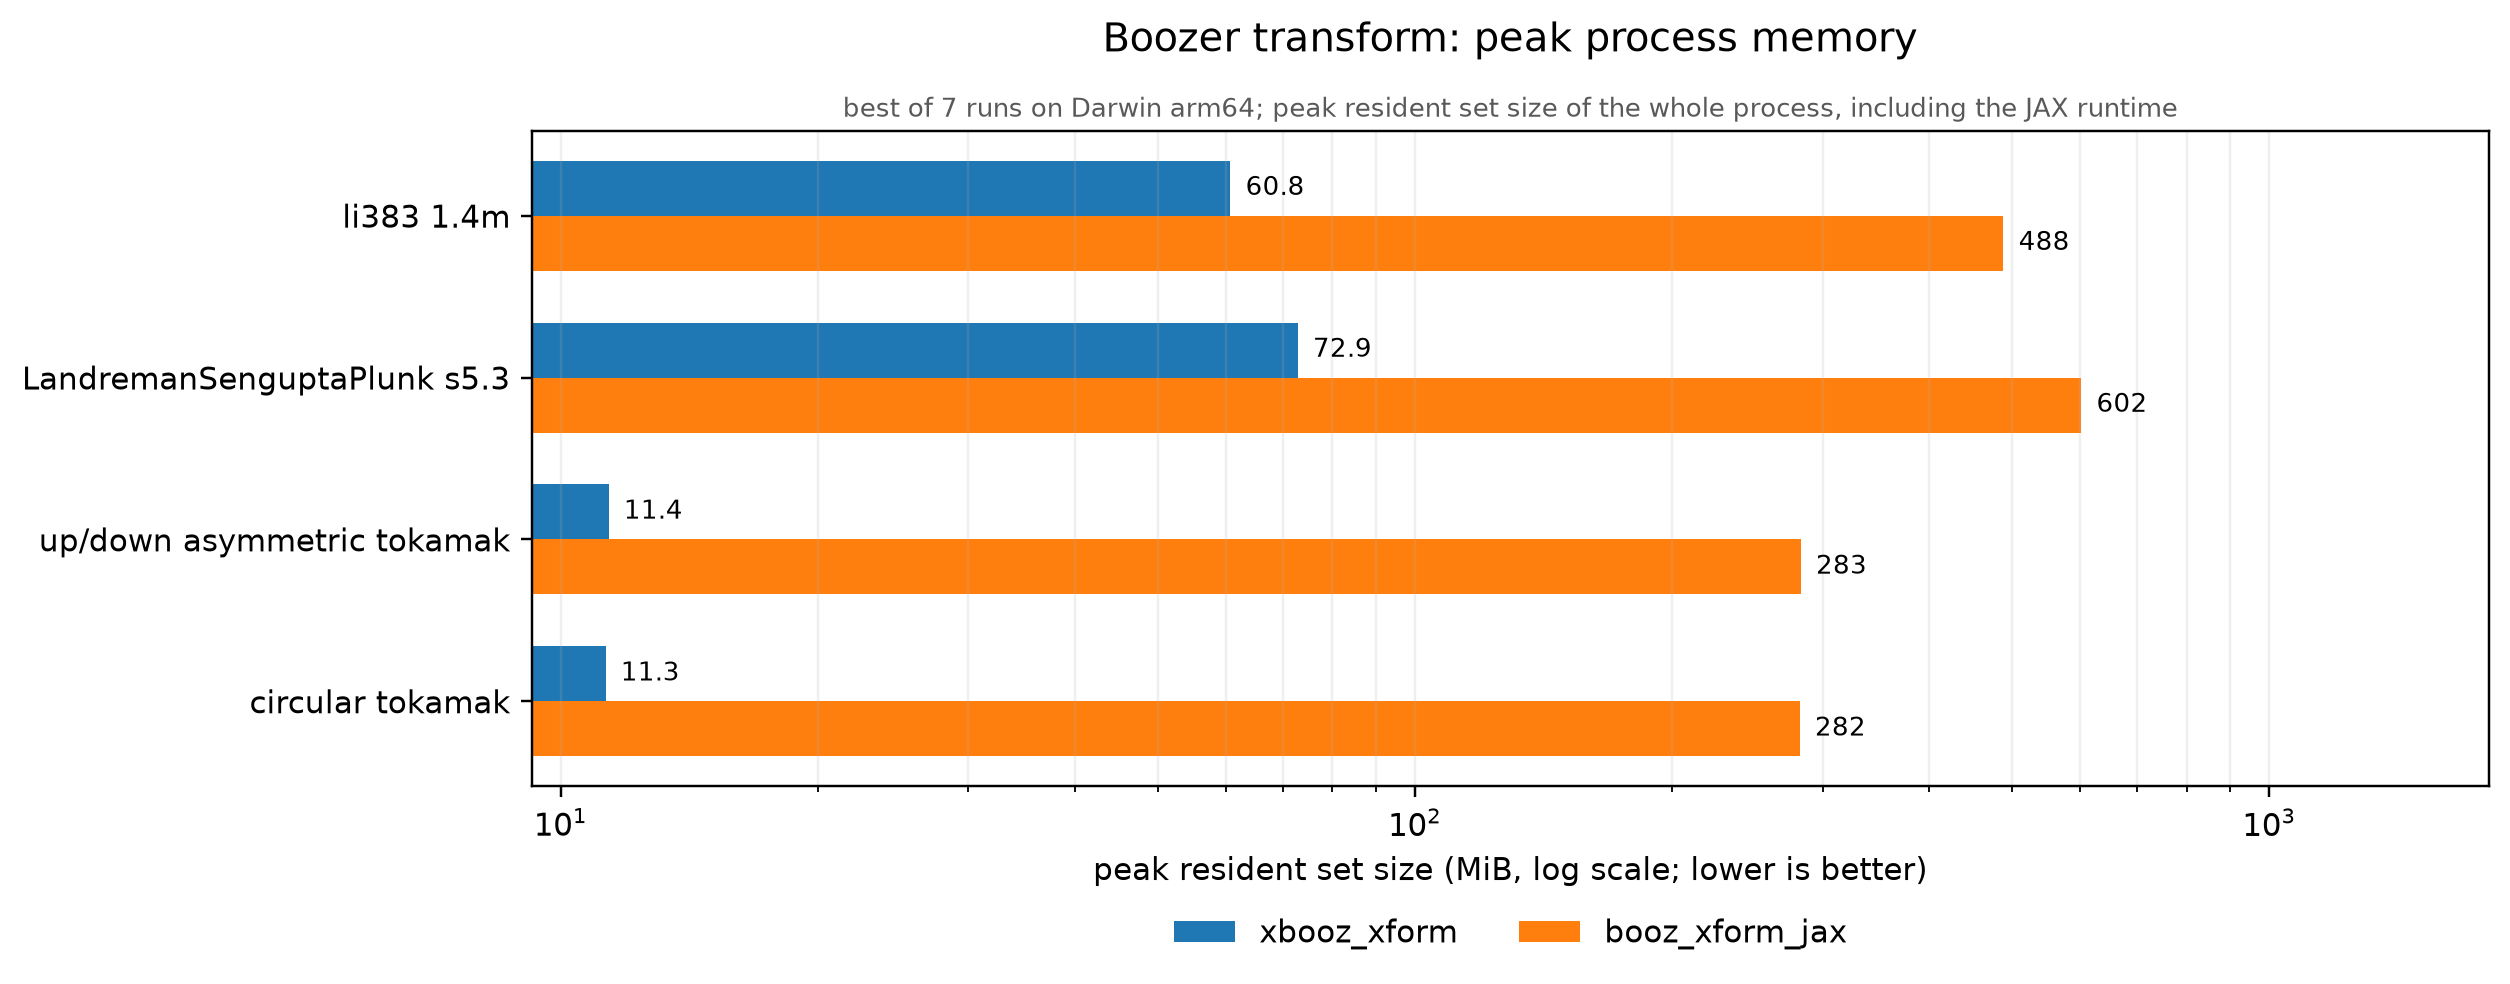
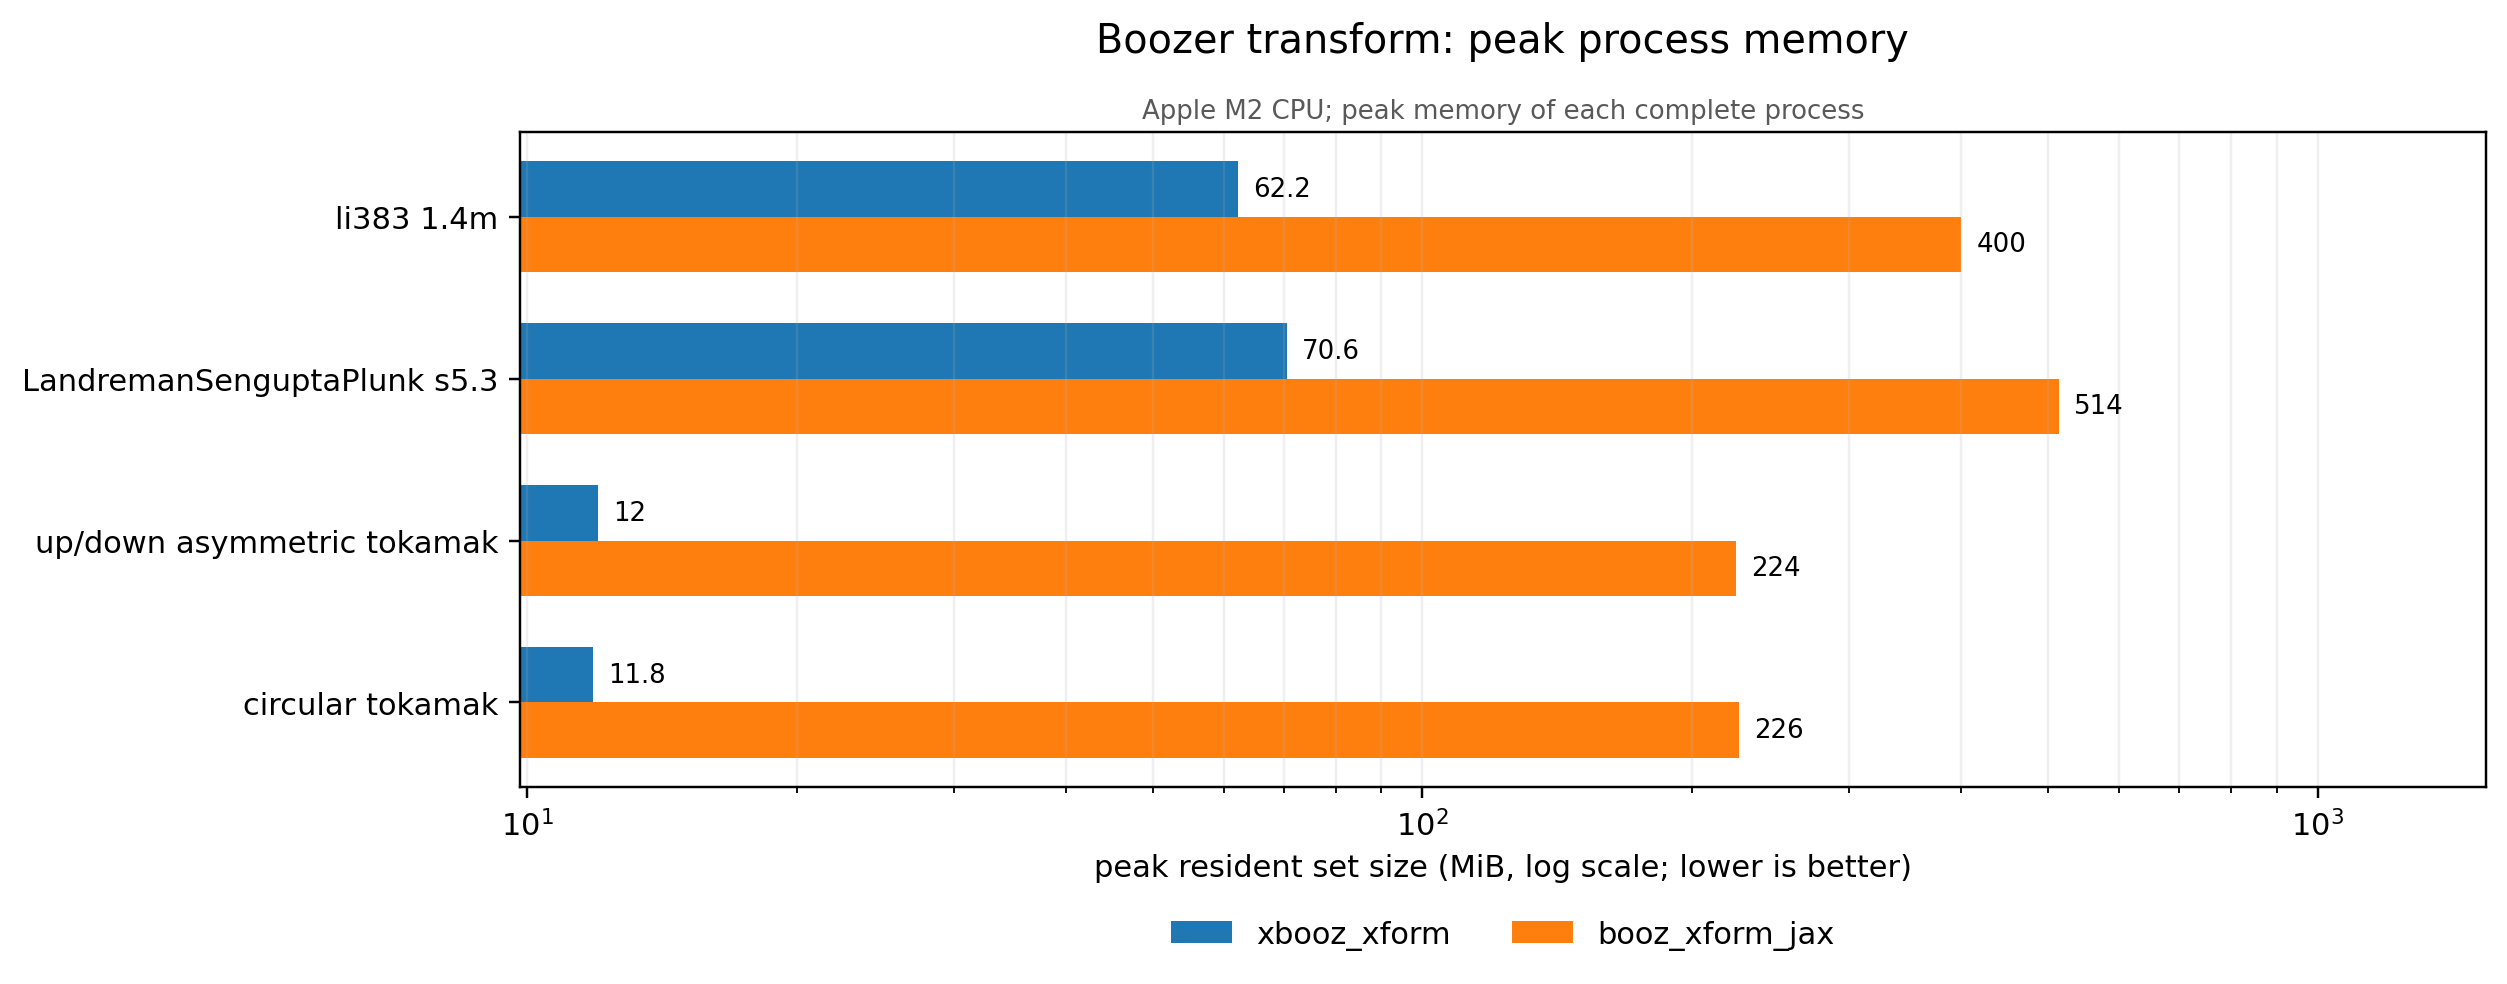
Release 0.4.2 with concise validated transform comparisons

diff --git a/tools/readme_compare.py b/tools/readme_compare.py
@@ -1,21 +1,4 @@
-"""Generate README comparison figures for booz_xform_jax vs original xbooz_xform.
-
-The numbers published in the README come from this script. Every row is an
-end-to-end measurement of the two command-line programs on the same legacy
-``booz_in`` input: total wall-clock time and peak resident set size of the
-process, taken as the best of several repeats.
-
-Total wall-clock time is the number a user actually waits for, and for
-``booz_xform_jax`` it includes a fixed Python and JAX import cost that the
-compiled reference does not pay. That cost is measured separately and
-reported alongside the table so the two contributions can be told apart; it
-is not subtracted from any published figure.
-
-The reference binary is located from ``--reference-bin``, the
-``BOOZ_XFORM_REFERENCE_BIN`` environment variable, or ``xbooz_xform`` on
-``PATH``. Two further cases are included when ``--vmec-jax-root`` or the
-``VMEC_JAX_ROOT`` environment variable points at a tree that contains them.
-"""
+"""Compare matched CLI spectra, runtime and memory with BOOZ_XFORM."""
 
 from __future__ import annotations
 
@@ -401,7 +384,11 @@ def _profile_metrics(ref_data, jax_data) -> dict[str, float]:
     iota_jax = np.asarray(jax_data["iota_b"])[1:]
     b00_ref = bmnc_ref[0]
     b00_jax = bmnc_jax[0]
+    bmns_ref = np.asarray(ref_data.get("bmns_b", np.zeros_like(bmnc_ref)))
+    bmns_jax = np.asarray(jax_data.get("bmns_b", np.zeros_like(bmnc_jax)))
     return {
+        "bmn_rel_l2": float(np.linalg.norm(np.stack((bmnc_jax - bmnc_ref, bmns_jax - bmns_ref)))
+                            / np.linalg.norm(np.stack((bmnc_ref, bmns_ref)))),
         "iota_rel_l2": float(np.linalg.norm(iota_jax - iota_ref) / max(np.linalg.norm(iota_ref), 1e-30)),
         "b00_rel_l2": float(np.linalg.norm(b00_jax - b00_ref) / max(np.linalg.norm(b00_ref), 1e-30)),
         "bmnc_rel_l2": float(np.linalg.norm(bmnc_jax - bmnc_ref) / max(np.linalg.norm(bmnc_ref), 1e-30)),
@@ -693,16 +680,14 @@ def main() -> None:
         rows,
         outpath=outdir / "comparison_runtime.png",
         subtitle=(
-            f"best of {args.repeats} runs on {platform}; booz_xform_jax includes "
-            f"{overhead.wall_s:.1f} s of fixed Python and JAX import cost on every invocation"
+            f"{platform} CPU, float64; fastest of {args.repeats} fresh processes"
         ),
     )
     _plot_memory(
         rows,
         outpath=outdir / "comparison_memory.png",
         subtitle=(
-            f"best of {args.repeats} runs on {platform}; peak resident set size of the "
-            "whole process, including the JAX runtime"
+            f"{platform} CPU; peak memory of each complete process"
         ),
     )
     for case_id, ref_data, jax_data in selected_profiles:

diff --git a/src/booz_xform_jax/__init__.py b/src/booz_xform_jax/__init__.py
@@ -30,7 +30,7 @@ from .cli import run_from_legacy_input
 # Version is defined here for convenience.  It must match the value in
 # pyproject.toml for consistency.  Updating the version in one place
 # should be mirrored in the other.
-__version__ = "0.4.1"
+__version__ = "0.4.2"
 
 __all__ = [
     "Booz_xform",

diff --git a/README.md b/README.md
@@ -1,57 +1,27 @@
 # booz_xform_jax
 
-Install from PyPI:
+[![PyPI](https://img.shields.io/pypi/v/booz_xform_jax.svg)](https://pypi.org/project/booz_xform_jax/)
+[![Tests](https://github.com/uwplasma/booz_xform_jax/actions/workflows/ci.yml/badge.svg)](https://github.com/uwplasma/booz_xform_jax/actions/workflows/ci.yml)
+[![Python](https://img.shields.io/pypi/pyversions/booz_xform_jax.svg)](https://pypi.org/project/booz_xform_jax/)
+[![License: MIT](https://img.shields.io/badge/License-MIT-green.svg)](LICENSE)
+
+Boozer coordinate transforms for VMEC and VMEX equilibria, with differentiable JAX kernels and legacy BOOZ_XFORM input and output files.
+
+## Installation
 
 ```bash
 pip install booz_xform_jax
 ```
 
-`booz_xform_jax` is a JAX-native implementation of the Boozer coordinate
-transformation for VMEC equilibria. It reads VMEC `wout` data, computes Boozer
-Fourier spectra, writes `boozmn` NetCDF files, exposes a differentiable Python
-API, and provides a legacy-compatible command line interface matching
-`xbooz_xform` workflows.
+For NVIDIA GPUs, install [JAX with CUDA support](https://docs.jax.dev/en/latest/installation.html#nvidia-gpu) in the same environment. For development, use `pip install -e .[dev]` in a clone.
 
-## Quickstart
+## Quick start
 
-Install directly from PyPI:
-
-```bash
-pip install booz_xform_jax
-```
-
-Install from a clone in editable mode when you want to modify the code:
-
-```bash
-git clone https://github.com/uwplasma/booz_xform_jax
-cd booz_xform_jax
-python -m venv .venv
-source .venv/bin/activate
-python -m pip install --upgrade pip
-python -m pip install -e .
-```
-
-The package installs these entry points:
-
-```bash
-booz_xform_jax
-xbooz_xform
-xbooz_xform_jax
-```
-
-CLI usage with a standard STELLOPT-style input file:
+Use a STELLOPT control file with `booz_xform_jax`, `xbooz_xform_jax` or `xbooz_xform`:
 
 ```bash
 booz_xform_jax in_booz.mycase F
 ```
-
-or, from a source checkout, using a bundled regression case:
-
-```bash
-booz_xform_jax tests/test_files/booz_in.circular_tokamak F
-```
-
-Python API usage:
 
 ```python
 from booz_xform_jax import Booz_xform
@@ -63,110 +33,53 @@ bx.run()
 bx.write_boozmn("boozmn_mycase.nc")
 ```
 
-The runtime dependencies installed from PyPI already include `jax`, `jaxlib`,
-`netCDF4`, `scipy`, `numpy` and `matplotlib`, so the CLI and the
-NetCDF readers/writers work after a normal `pip install`.
+Use `bx.run_jax()` or the [functional API](docs/api.rst) for compiled transforms and `jax.grad`, `jax.jvp` and `jax.vmap`. [Examples](docs/examples.rst) cover geometry, resolution scans and optimization.
+
+## Capabilities
+
+| Feature | BOOZ_XFORM (Fortran) | booz_xform_jax |
+|---|:---:|:---:|
+| CPU | ✅ | ✅ |
+| GPU | ❌ | ✅ |
+| Automatic differentiation | ❌ | ✅ |
+| Stellarator symmetric geometry | ✅ | ✅ |
+| Nonstellarator symmetric geometry, including sine spectra | ✅ | ✅ |
+| Legacy control files and NetCDF `boozmn` output | ✅ | ✅ |
+
+## Accuracy and speed
+
+Matched CLI transforms agree with STELLOPT BOOZ_XFORM to double precision, including nonzero sine coefficients. Times below include process startup and file I/O: Apple M2 CPU, float64, fastest of three fresh processes, compilation cache disabled.
+
+![Boozer transform runtime](docs/comparison_runtime.png)
+
+| Equilibrium | Surfaces | Relative L2 error in cosine and sine spectra | Fortran | JAX |
+|---|---:|---:|---:|---:|
+| Circular tokamak | 3 | 4.8e-15 | 0.10 s | 0.82 s |
+| Up/down asymmetric tokamak | 3 | 1.0e-14 | 0.10 s | 0.82 s |
+| li383 | 4 | 4.9e-15 | 1.16 s | 0.91 s |
+| Landreman–Sengupta–Plunk | 4 | 5.7e-15 | 1.72 s | 0.95 s |
+
+Fortran is faster on the small tokamak cases; JAX is faster on these stellarator cases. JAX process startup takes 0.71 s; full-process peak memory is 224–514 MiB versus 12–71 MiB for Fortran. [Measurements](README_assets/readme_compare_metrics.json) include resolution and memory; [the memory plot](docs/comparison_memory.png) shows all four cases.
+
+Compiled Python transforms amortize their first-call cost:
+
+| li383, 48 surfaces, `mboz=nboz=16` | First call | Warm call |
+|---|---:|---:|
+| JAX, x86-64 CPU | 0.446 s | 0.0830 s |
+| JAX, RTX A4000 GPU | 0.728 s | 0.00629 s |
+
+These synchronized kernel measurements use JAX 0.9.2 and exclude setup and file I/O. [CPU](profiles/matrix_separable_cpu.json) and [GPU](profiles/matrix_separable_gpu.json) records include derivative timings and source revisions.
+
+Reproduce the CLI comparison with a STELLOPT `xbooz_xform` executable on `PATH`:
+
+```bash
+python tools/readme_compare.py --repeats 3
+```
 
 ## Documentation
 
-The full documentation now lives in the `docs/` tree:
+[Quickstart](docs/quickstart.rst) · [Theory](docs/theory.rst) · [Inputs and outputs](docs/inputs_outputs.rst) · [Numerics](docs/numerics.rst) · [STELLOPT compatibility](docs/stellopt_compatibility.rst) · [API](docs/api.rst)
 
-- [Documentation index](docs/index.rst)
-- [Quickstart](docs/quickstart.rst)
-- [Theory and derivations](docs/theory.rst)
-- [Inputs and outputs](docs/inputs_outputs.rst)
-- [Numerics and performance](docs/numerics.rst)
-- [Examples](docs/examples.rst)
-- [STELLOPT compatibility notes](docs/stellopt_compatibility.rst)
-- [API and source reference](docs/api.rst)
-- [Citations](docs/citations.rst)
+## Citation and license
 
-## Measured Comparison
-
-`tools/readme_compare.py` runs `booz_xform_jax` and the reference `xbooz_xform`
-on the same VMEC cases, through the same legacy `booz_in` input, and records
-what both actually do. Everything in this section comes from one run of that
-script; nothing here is estimated.
-
-### Agreement
-
-The two codes produce the same Boozer spectra to machine precision. Relative
-L2 differences over all modes and all transformed surfaces:
-
-| Case | ns | `bmnc_b` | `iota_b` | `B_00` |
-|---|---|---|---|---|
-| circular tokamak | 17 | 2.8e-15 | 0 | 3.3e-16 |
-| up/down asymmetric tokamak | 17 | 3.8e-15 | 0 | 4.0e-16 |
-| li383 1.4m | 49 | 6.1e-15 | 0 | 2.7e-15 |
-| LandremanSenguptaPlunk s5.3 | 51 | 4.8e-15 | 0 | 2.8e-15 |
-
-### Runtime and memory
-
-<p align="center">
-  <img src="docs/comparison_runtime.png" width="860" />
-</p>
-<p align="center">
-  <img src="docs/comparison_memory.png" width="860" />
-</p>
-
-Total wall-clock time and peak resident set size of each command-line program,
-best of seven runs, on one Apple-silicon laptop (Darwin arm64, CPU only):
-
-| Case | ns | `xbooz_xform` | `booz_xform_jax` | Ratio | Peak RSS ref | Peak RSS jax |
-|---|---|---|---|---|---|---|
-| circular tokamak | 17 | 0.02 s | 2.64 s | 0.01x | 11 MiB | 282 MiB |
-| up/down asymmetric tokamak | 17 | 0.02 s | 2.76 s | 0.01x | 11 MiB | 283 MiB |
-| li383 1.4m | 49 | 0.78 s | 2.69 s | 0.29x | 61 MiB | 488 MiB |
-| LandremanSenguptaPlunk s5.3 | 51 | 1.90 s | 3.20 s | 0.59x | 73 MiB | 602 MiB |
-
-**On these cases `booz_xform_jax` is slower than the compiled reference, and
-uses substantially more memory.** Of its runtime, 1.14 s is a fixed cost for
-starting Python and importing JAX, paid on every invocation; the rest is
-dominated by JAX tracing and XLA compilation, which these problem sizes are far
-too small to amortise. Subtracting the import cost entirely, it is still slower
-on all four cases.
-
-These are the only equilibria bundled with the repository, and they are small:
-`ns` between 17 and 51, three or four transformed surfaces each. No large case
-ships here, so no large-case number is published. Laptop timings vary by a few
-tens of percent between runs, so read the table as orders of magnitude rather
-than precise ratios.
-
-What the JAX implementation buys is not raw CPU speed on small equilibria. It
-is a transform that is differentiable end to end (`jax.grad`, `jax.jvp`,
-`jax.jacfwd` through `booz_xform_jax.jax_api`), that composes with `jax.jit`
-and `jax.vmap`, and that runs unchanged on a GPU. If you need the fastest
-single CPU transform of a small equilibrium, use the original code.
-
-Reproduce every number and both figures above with:
-
-```bash
-BOOZ_XFORM_REFERENCE_BIN=/path/to/xbooz_xform python tools/readme_compare.py
-```
-
-The script writes `docs/comparison_runtime.png`, `docs/comparison_memory.png`
-and `README_assets/readme_compare_metrics.json`, which records the platform,
-the repeat count and every measurement behind the tables above. The reference
-binary is also found automatically if `xbooz_xform` is on `PATH`.
-
-## Project Scope
-
-- The legacy BOOZ_XFORM input format, surface-selection conventions, and
-  `boozmn` output structure are supported so existing workflows transfer
-  cleanly.
-- The numerical core is written in JAX and keeps the transform
-  differentiable.
-- The package includes both the object-oriented `Booz_xform` interface and a
-  lower-level functional API in `booz_xform_jax.jax_api`.
-- More technical background, equations, derivations, numerics, and source
-  references have been moved from the README into the documentation.
-
-## Citation
-
-If you use this package, cite the original Boozer-coordinate and BOOZ_XFORM
-literature listed in [docs/citations.rst](docs/citations.rst), together with
-this repository.
-
-## License
-
-MIT. See [LICENSE](LICENSE).
+Cite the Boozer-coordinate and BOOZ_XFORM literature in [the bibliography](docs/citations.rst), together with this repository. Licensed under [MIT](LICENSE).
